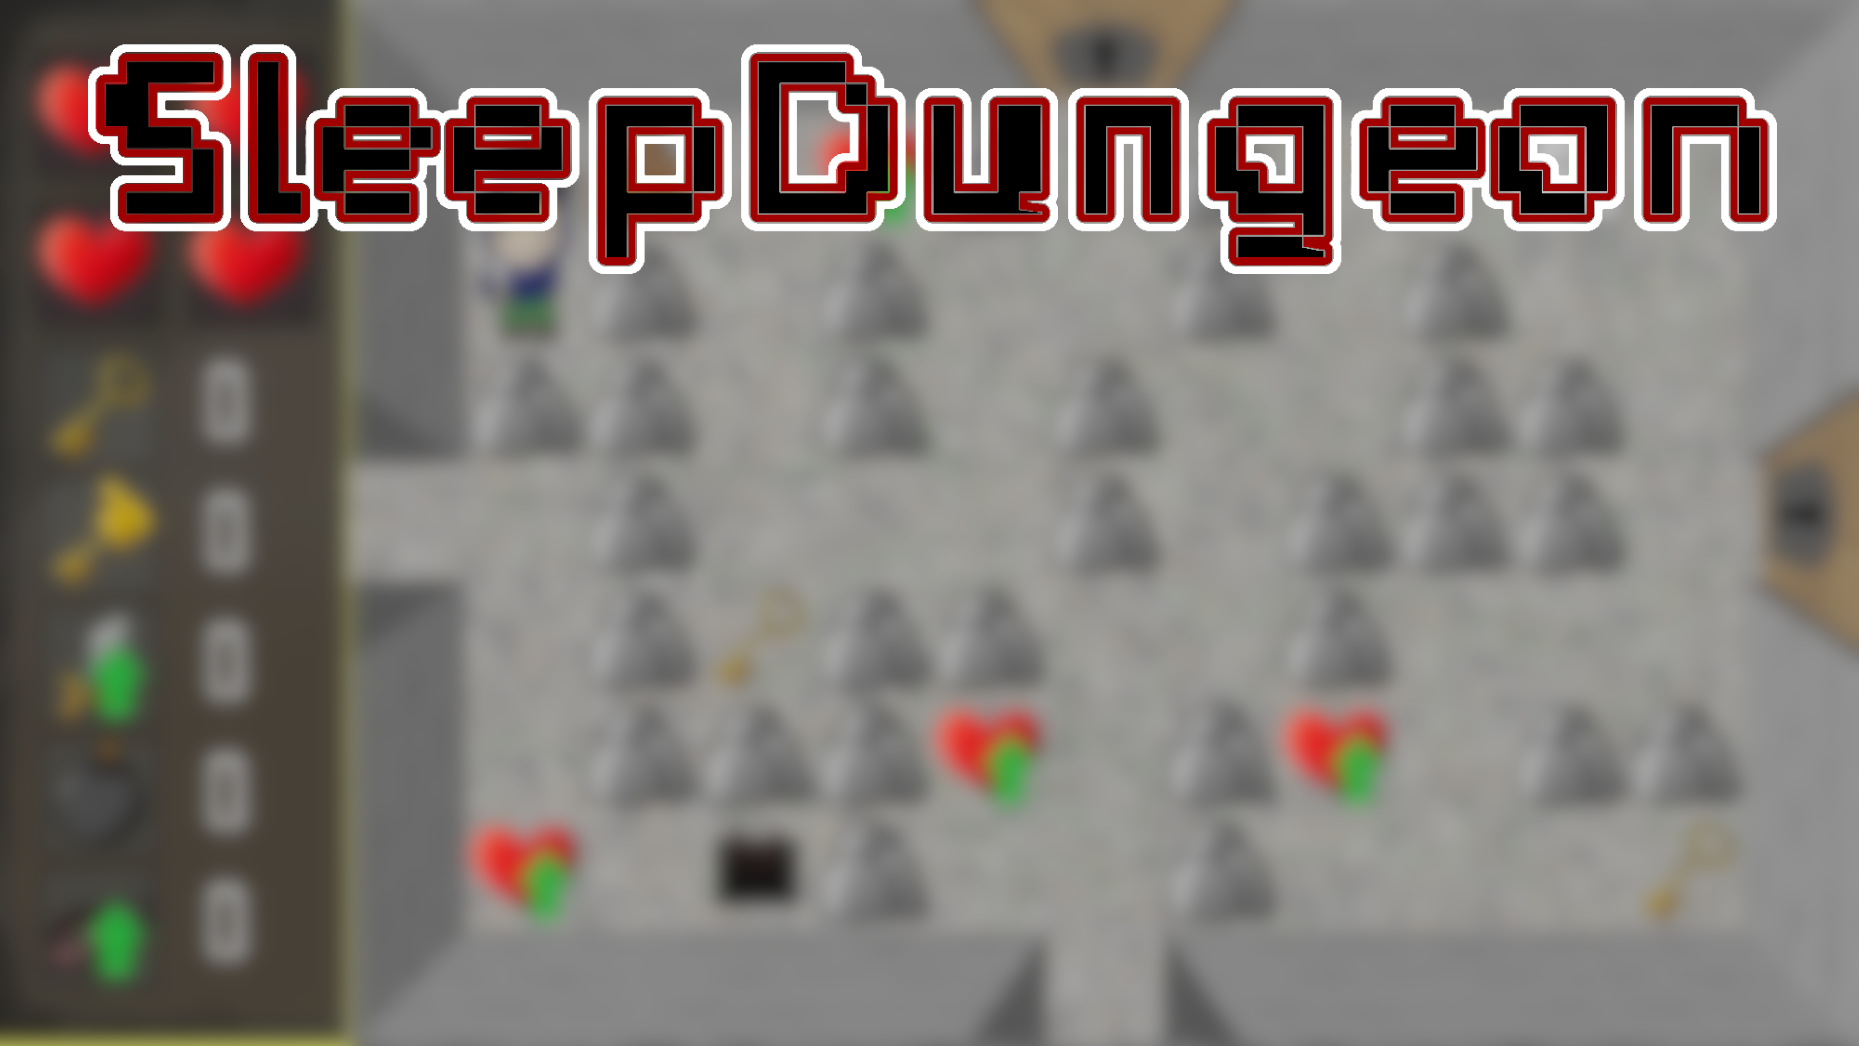
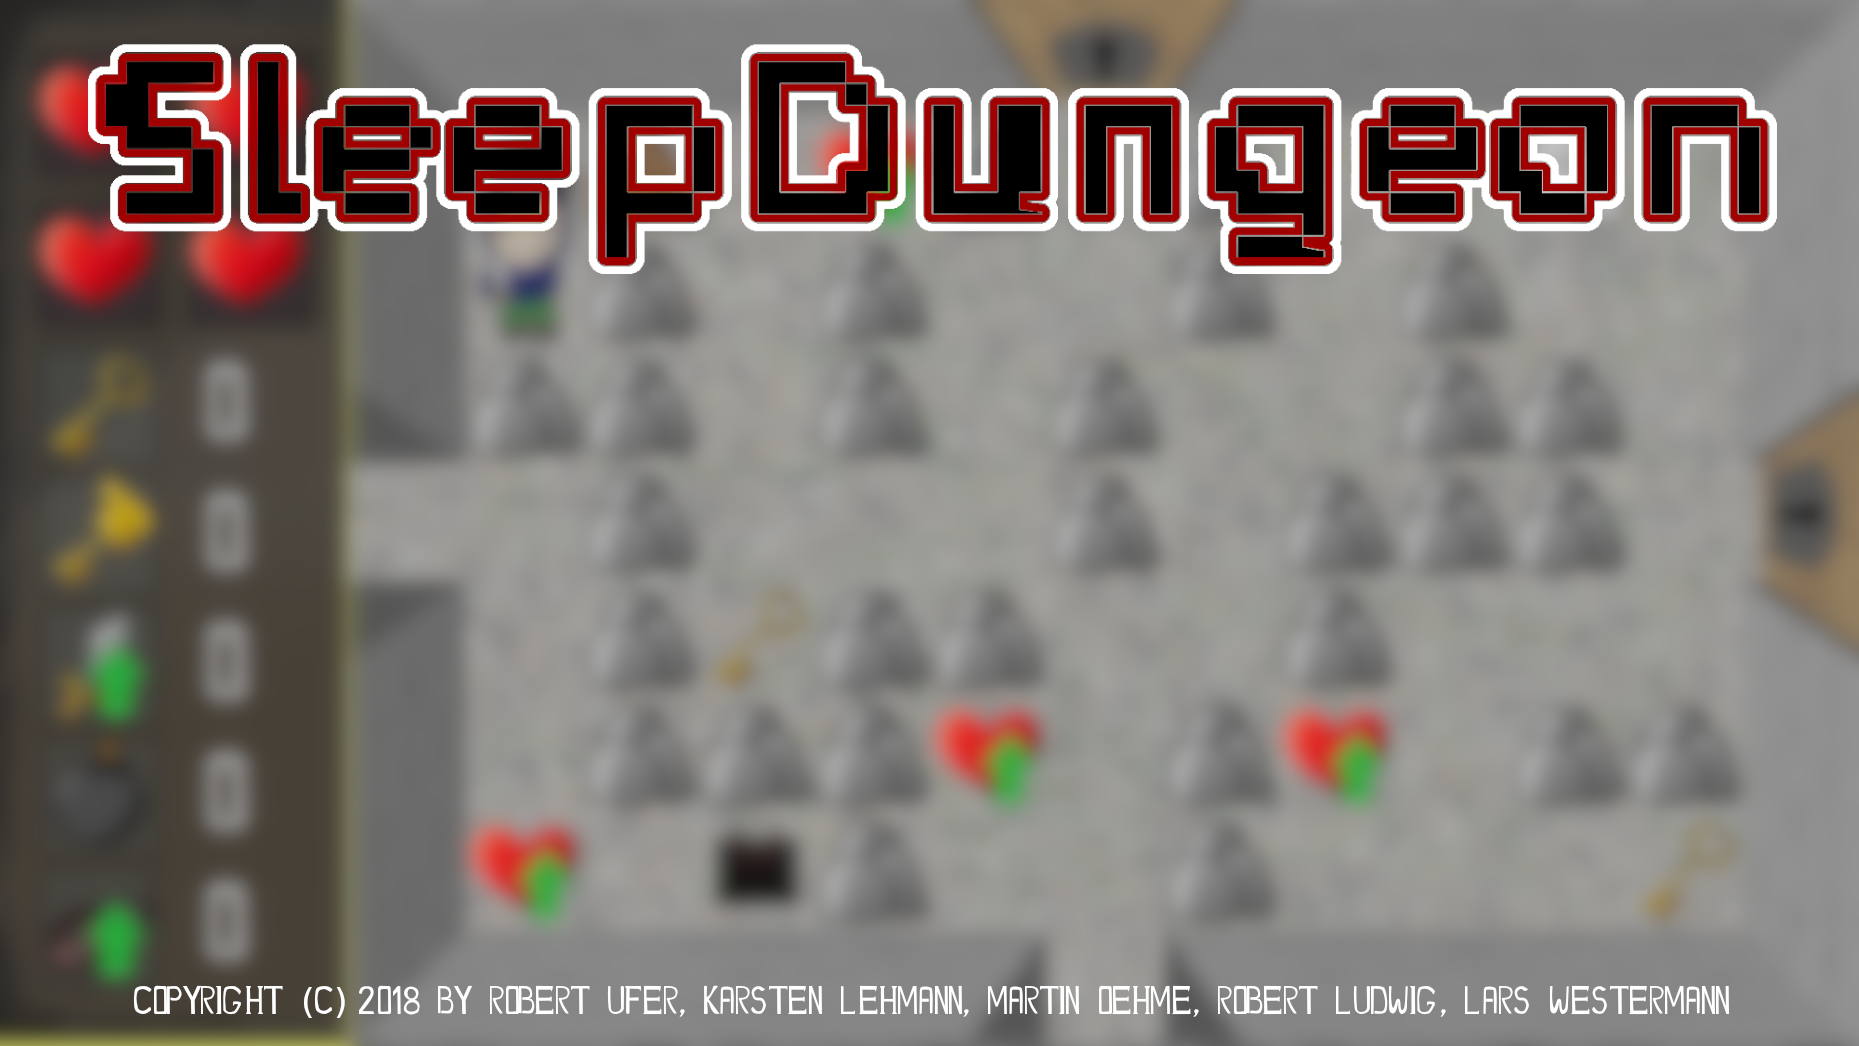
add copyright to main menu

Changed region(s): [[0.0624, 0.9178, 0.936, 0.979]]

diff --git a/sleepdungeon/main_menu/__init__.py b/sleepdungeon/main_menu/__init__.py
@@ -26,11 +26,11 @@ class MainMenu(Sprite):
         self.z_index = 64
 
         self.btns = [
-            MenuFontObject("EASY", (160, 150), True),
-            MenuFontObject("ORIGINAL", (160, 210)),
-            MenuFontObject("HARDMODE", (160, 270)),
-            MenuFontObject("SOUND ON", (160, 330)),
-            MenuFontObject("EXIT", (160, 390))
+            MenuFontObject("EASY", (160, 130), True),
+            MenuFontObject("ORIGINAL", (160, 190)),
+            MenuFontObject("HARDMODE", (160, 250)),
+            MenuFontObject("SOUND ON", (160, 310)),
+            MenuFontObject("EXIT", (160, 370)),
         ]
         self.initial_ticks = 5
         self.cooldown = 0
@@ -82,11 +82,11 @@ class MainMenu(Sprite):
                     self.btns[self.selected].blend_out()
                 elif self.selected == 3:
                     if self.sound:
-                        self.btns[3].renew_text("SOUND OFF")
+                        self.btns[self.selected].renew_text("SOUND OFF")
                         self.sound = False
                         MusicManager.set_sound(False)
                     else:
-                        self.btns[3].renew_text("SOUND ON")
+                        self.btns[self.selected].renew_text("SOUND ON")
                         MusicManager.set_sound(True)
                         self.sound = True
                 elif self.selected == 4:
